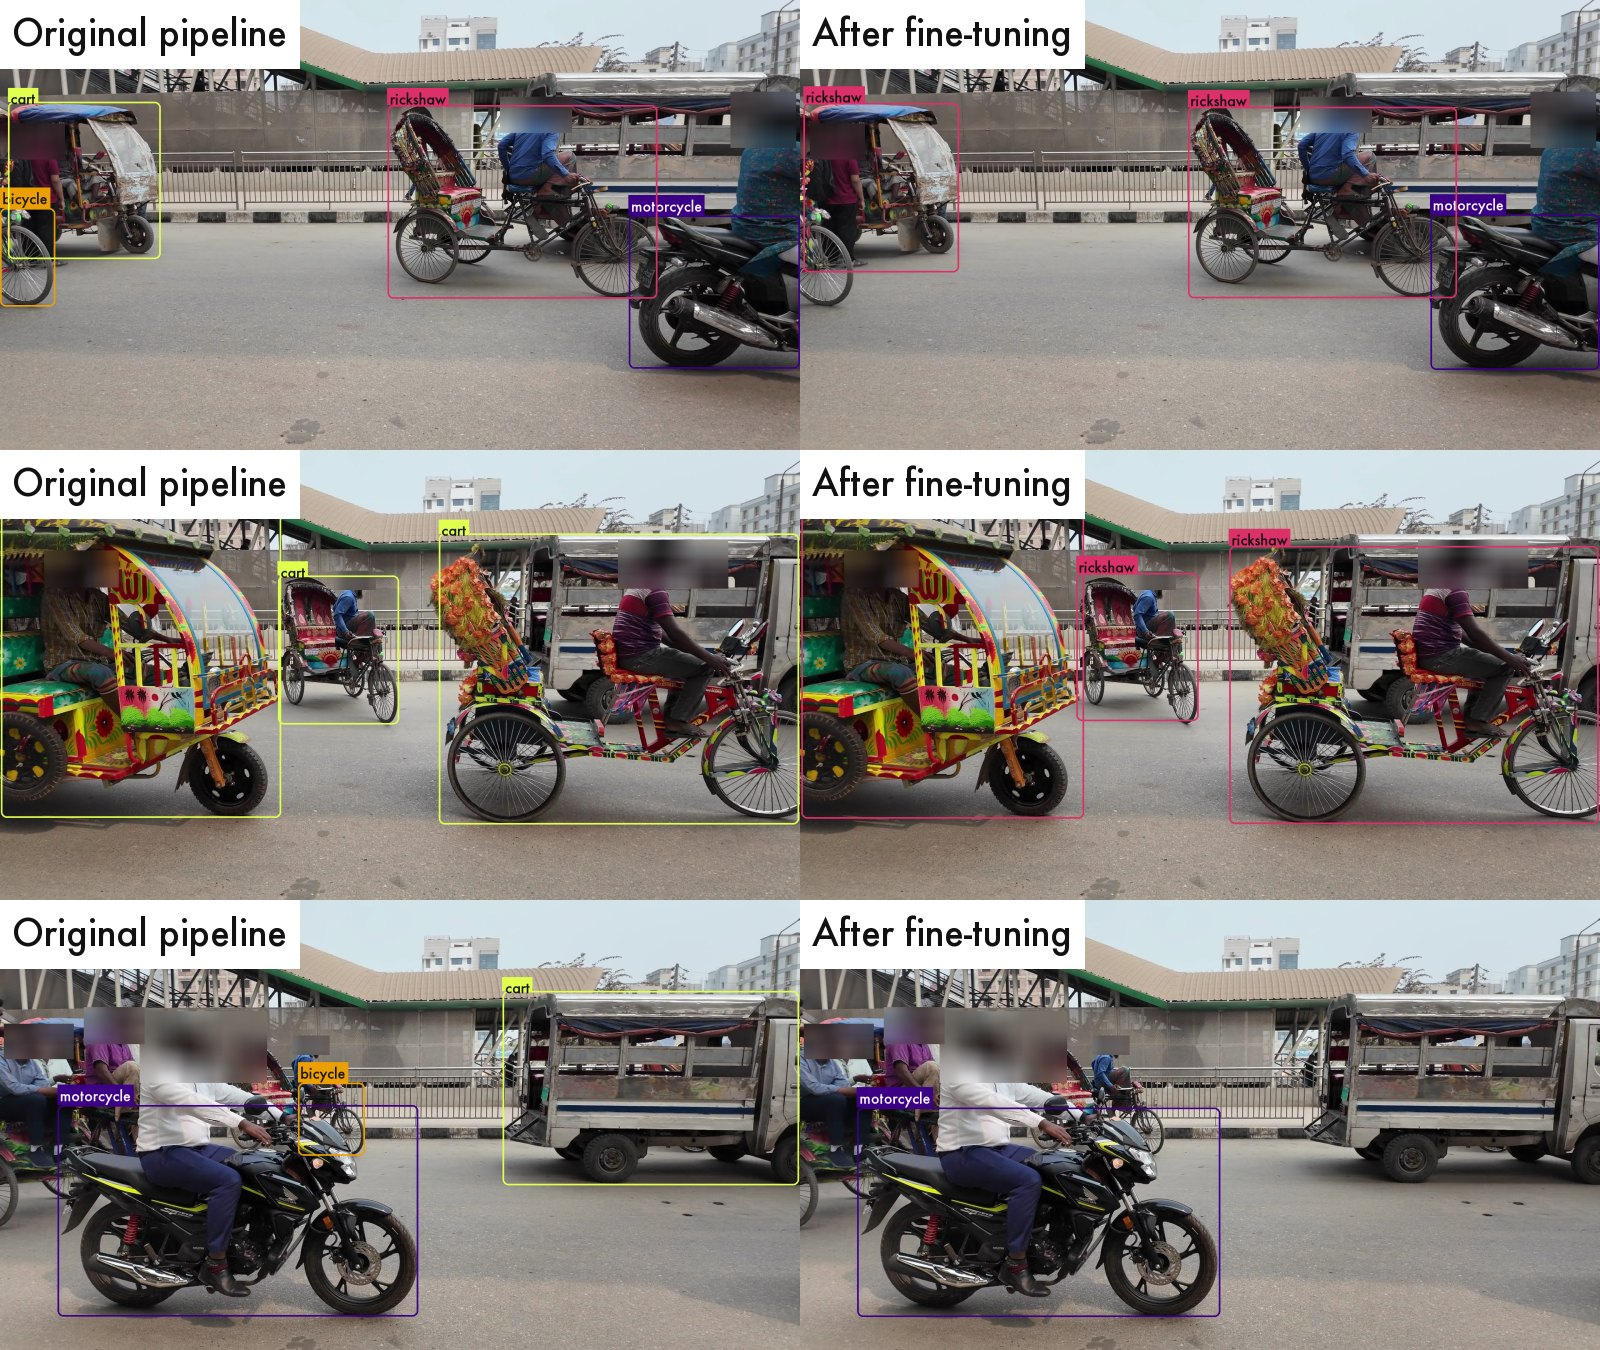
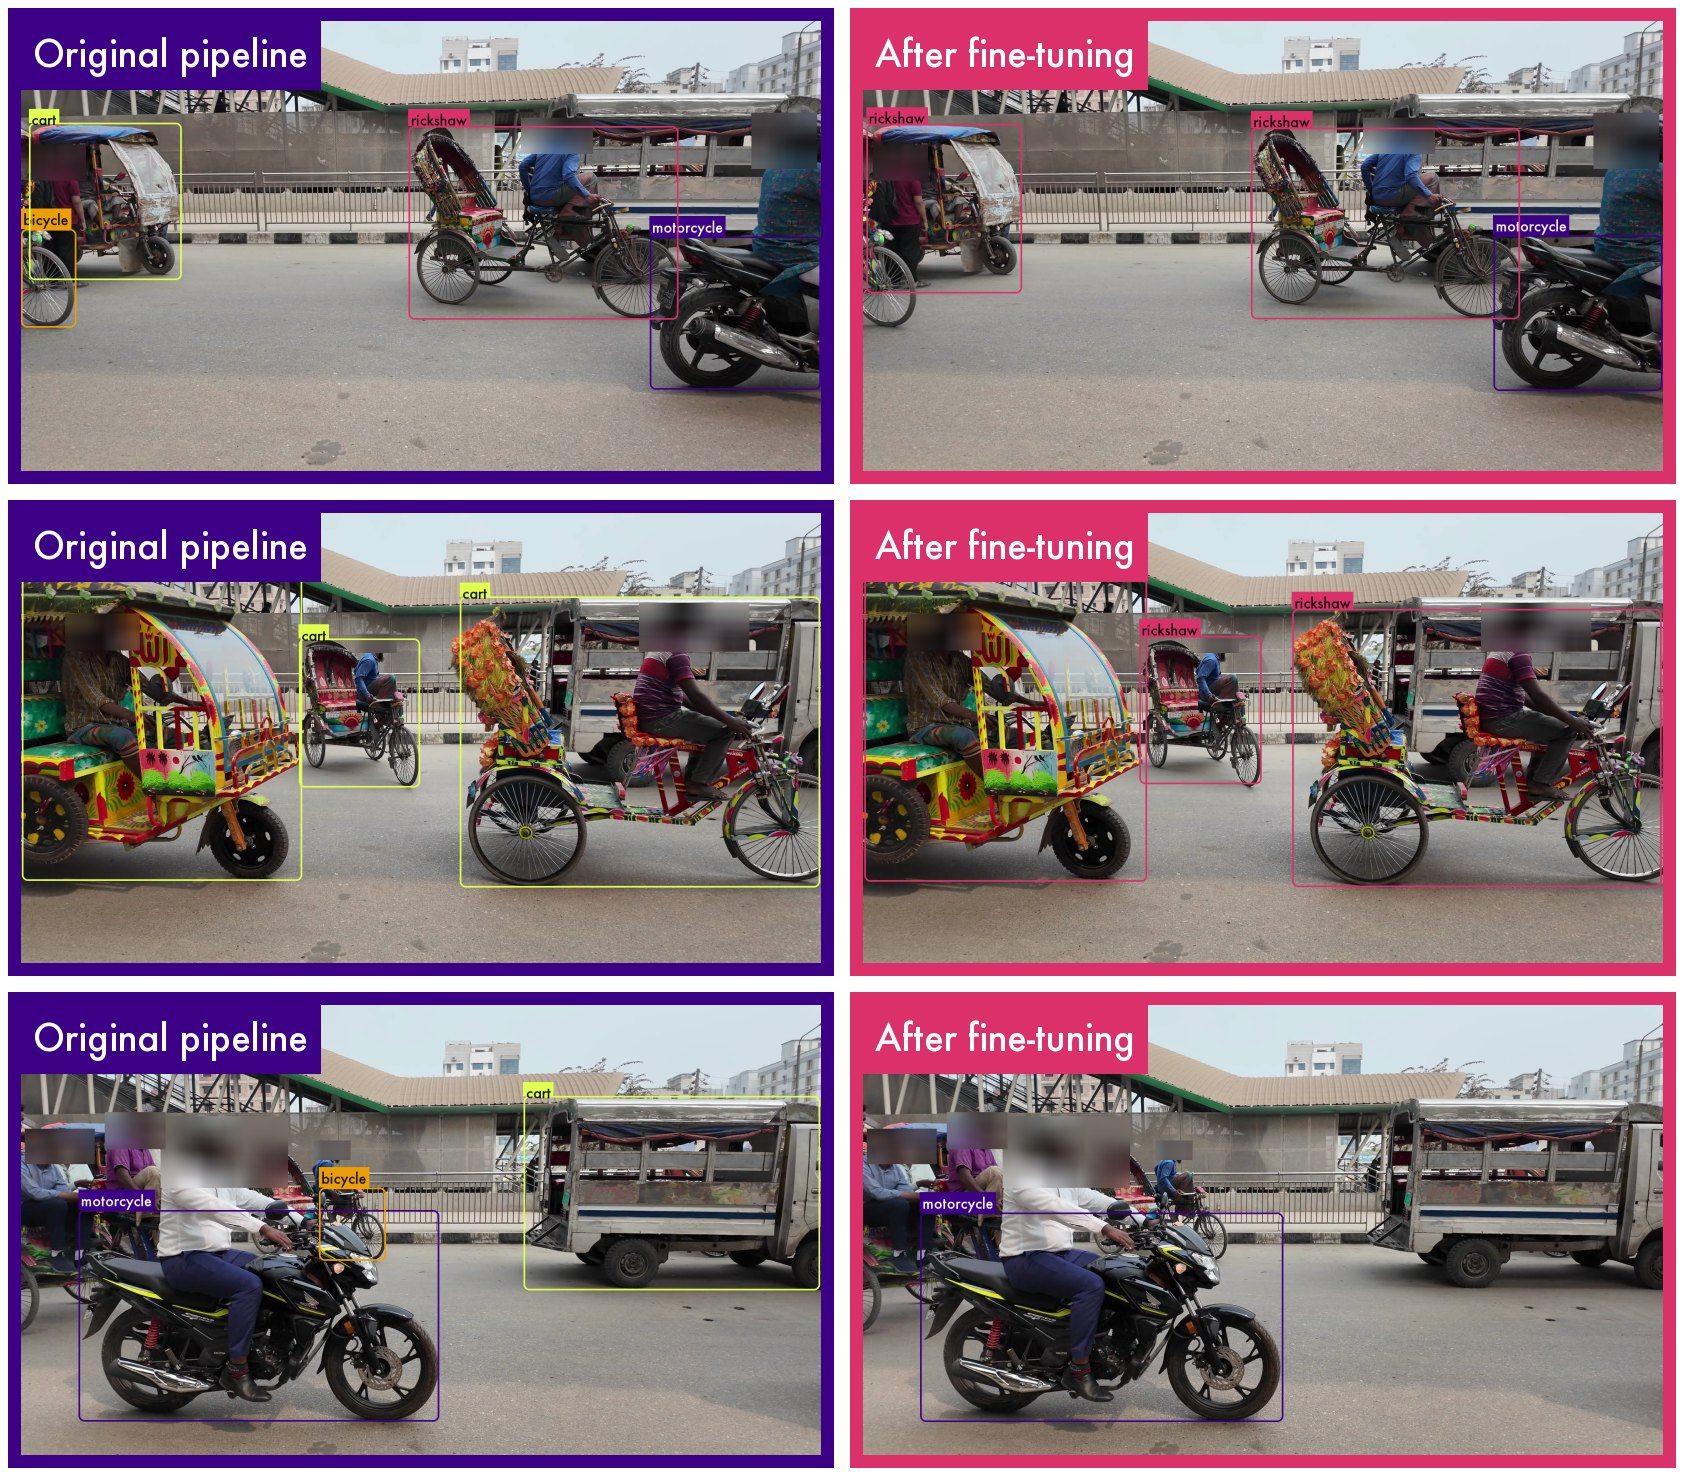
README: framed before/after panels, amber built-with badge, plain Claude note
Original pipeline panels use a deep purple frame and after fine-tuning a raspberry one.

diff --git a/scripts/make_figures.py b/scripts/make_figures.py
@@ -2,7 +2,7 @@ import argparse, json, os
 from pathlib import Path
 import numpy as np, cv2
 import supervision as sv
-from PIL import Image, ImageDraw, ImageFont
+from PIL import Image, ImageDraw, ImageFont, ImageOps
 
 # Builds the README pictures for a held-out test clip (default clip1, the Dhaka street): a side-by-side before/after GIF, three before/after stills,
 # and a gallery of real mistakes (old pipeline and fine-tuned model). Vehicles only, same style both sides.
@@ -94,11 +94,21 @@ def draw(img_bgr, items, size=22):
     return cv2.cvtColor(np.array(pil), cv2.COLOR_RGB2BGR)
 
 
-def banner(img_bgr, text):
-    pil = Image.fromarray(cv2.cvtColor(img_bgr, cv2.COLOR_BGR2RGB)); dr = ImageDraw.Draw(pil); f = FONT(max(16, img_bgr.shape[1] // 22))
+ORIG_HEX, AFTER_HEX = "#3B0086", "#db3069"   # palette colors: original pipeline = deep purple, after fine-tuning = raspberry
+
+
+def panel(img_bgr, text, hex_color):
+    """Colored frame and colored label tab, so busy pictures can be told apart at a glance. White gutter outside."""
+    col = rgb(hex_color)
+    h, w = img_bgr.shape[:2]
+    b = max(8, w // 60)
+    framed = cv2.copyMakeBorder(img_bgr, b, b, b, b, cv2.BORDER_CONSTANT, value=col[::-1])
+    pil = Image.fromarray(cv2.cvtColor(framed, cv2.COLOR_BGR2RGB)); dr = ImageDraw.Draw(pil); f = FONT(max(16, w // 22))
     tb = dr.textbbox((0, 0), text, font=f)
-    dr.rectangle([0, 0, tb[2] + 24, tb[3] + 20], fill=(255, 255, 255)); dr.text((12, 8), text, font=f, fill=(17, 17, 17))
-    return cv2.cvtColor(np.array(pil), cv2.COLOR_RGB2BGR)
+    dr.rectangle([b, b, b + tb[2] + 24, b + tb[3] + 20], fill=col)
+    dr.text((b + 12, b + 8), text, font=f, fill=(255, 255, 255))
+    out = cv2.cvtColor(np.array(pil), cv2.COLOR_RGB2BGR)
+    return cv2.copyMakeBorder(out, 8, 8, 8, 8, cv2.BORDER_CONSTANT, value=(255, 255, 255))
 
 
 def render(iid, source, w):
@@ -117,7 +127,7 @@ def hits(pred, iid, cls=4):
 frames = sorted(files)[::3]
 pairs = []
 for iid in frames:
-    a, b = banner(render(iid, O, 480), "Original pipeline"), banner(render(iid, P, 480), "After fine-tuning")
+    a, b = panel(render(iid, O, 460), "Original pipeline", ORIG_HEX), panel(render(iid, P, 460), "After fine-tuning", AFTER_HEX)
     pairs.append(np.hstack([a, b]))
 import subprocess, tempfile, imageio_ffmpeg
 tmp = tempfile.mkdtemp()
@@ -135,7 +145,7 @@ for i in gain:
     if all(abs(i - j) >= 10 for j in pick): pick.append(i)
     if len(pick) == 3: break
 if len(pick) == 3:
-    rows = [np.hstack([banner(render(i, O, 800), "Original pipeline"), banner(render(i, P, 800), "After fine-tuning")]) for i in sorted(pick)]
+    rows = [np.hstack([panel(render(i, O, 800), "Original pipeline", ORIG_HEX), panel(render(i, P, 800), "After fine-tuning", AFTER_HEX)]) for i in sorted(pick)]
     cv2.imwrite(str(OUT / f"where_it_wins_{args.tag}.jpg"), np.vstack(rows), [cv2.IMWRITE_JPEG_QUALITY, 86])
 else:
     print("not enough real wins for a strip:", len(gain), "frames")
@@ -145,14 +155,14 @@ pick2 = []
 for i in loss:
     if all(abs(i - j) >= 10 for j in pick2): pick2.append(i)
     if len(pick2) == 3: break
-rows = [np.hstack([banner(render(i, O, 800), "Original pipeline"), banner(render(i, P, 800), "After fine-tuning")]) for i in sorted(pick2)]
+rows = [np.hstack([panel(render(i, O, 800), "Original pipeline", ORIG_HEX), panel(render(i, P, 800), "After fine-tuning", AFTER_HEX)]) for i in sorted(pick2)]
 cv2.imwrite(str(OUT / f"where_it_is_worse_{args.tag}.jpg"), np.vstack(rows), [cv2.IMWRITE_JPEG_QUALITY, 86])
 
 # 3) gallery of real mistakes
 tiles = []
 
 
-def tile(iid, cat, box, label, caption):
+def tile(iid, cat, box, label, caption, hex_color):
     img = read_blurred(f"{args.images}/{files[iid]}")
     img = draw(img, [(cat, box, label)], size=34)
     x1, y1, x2, y2 = box; cx, cy = (x1 + x2) / 2, (y1 + y2) / 2
@@ -161,7 +171,8 @@ def tile(iid, cat, box, label, caption):
     crop = cv2.resize(img[y0:y0 + int(h), x0:x0 + int(w)], (640, 360), interpolation=cv2.INTER_AREA)
     pil = Image.fromarray(cv2.cvtColor(crop, cv2.COLOR_BGR2RGB)); canvas = Image.new("RGB", (640, 420), (255, 255, 255))
     canvas.paste(pil, (0, 0)); ImageDraw.Draw(canvas).text((12, 372), caption, font=FONT(24), fill=(17, 17, 17))
-    tiles.append(np.array(canvas))
+    ImageDraw.Draw(canvas).rectangle([0, 0, 639, 419], outline=rgb(hex_color), width=10)
+    tiles.append(np.array(ImageOps.expand(canvas, border=8, fill=(255, 255, 255))))
 
 
 def best(cands, used):
@@ -180,22 +191,22 @@ for cat_name, cid, caption in (("cart", 5, "Old pipeline: a rickshaw called a ca
             if m and not any(pc == 4 and iou(gb, pb) > 0.5 for pc, pb, _ in O.get(iid, [])):
                 c.append(((gb[2] - gb[0]) * (gb[3] - gb[1]), iid, m[0]))
     t = best(c, used)
-    if t: tile(t[1], cid, t[2], cat_name, caption)
+    if t: tile(t[1], cid, t[2], cat_name, caption, ORIG_HEX)
 
 # model boxes drawn where the answer key has nothing: kept only if I confirmed by eye that they are wrong (see AUDITED_WRONG)
 AUDITED_WRONG = set()   # (frame id, class) pairs, filled in after looking at every unmatched box
 fp = [((b[2] - b[0]) * (b[3] - b[1]), iid, b) for iid, pl in P.items() for c, b, s in pl
       if (iid, c) in AUDITED_WRONG and not any(iou(b, gb) > 0.3 for _, gb, _ in G.get(iid, []))]
 t = best(fp, used)
-if t: tile(t[1], 4, t[2], "rickshaw", "Fine-tuned: a wrong guess (audited by eye)")
+if t: tile(t[1], 4, t[2], "rickshaw", "Fine-tuned: a wrong guess (audited by eye)", AFTER_HEX)
 miss = [((b[2] - b[0]) * (b[3] - b[1]), iid, b) for iid, gl in G.items() for c, b, _ in gl
         if c == 4 and not any(iou(b, pb) > 0.1 for pc, pb, _ in P.get(iid, []))]  # nothing at all drawn on it
 t = best(miss, used)
-if t: tile(t[1], 4, t[2], "missed", "Fine-tuned: a rickshaw it did not see")
+if t: tile(t[1], 4, t[2], "missed", "Fine-tuned: a rickshaw it did not see", AFTER_HEX)
 mo = [((b[2] - b[0]) * (b[3] - b[1]), iid, pb) for iid, gl in G.items() for c, b, _ in gl if c == 4
       for pc, pb, _ in P.get(iid, []) if pc == 3 and iou(b, pb) > 0.5]
 t = best(mo, used)
-if t: tile(t[1], 3, t[2], "motorcycle", "Fine-tuned: a rickshaw called a motorcycle")
+if t: tile(t[1], 3, t[2], "motorcycle", "Fine-tuned: a rickshaw called a motorcycle", AFTER_HEX)
 while len(tiles) % 3: tiles.append(np.full_like(tiles[0], 255))
 cv2.imwrite(str(OUT / f"mistakes_gallery_{args.tag}.jpg"), cv2.cvtColor(np.vstack([np.hstack(tiles[i:i + 3]) for i in range(0, len(tiles), 3)]), cv2.COLOR_RGB2BGR),
             [cv2.IMWRITE_JPEG_QUALITY, 86])

diff --git a/README.md b/README.md
@@ -2,6 +2,8 @@
 
 **Teaching RF-DETR to identify rickshaws in Dhaka street footage, with Roboflow's open source tools.**
 
+<img src="media/built_with_claude_code.png" alt="Built with Claude Code, Sonnet 5.5" width="360">
+
 ![The fine-tuned model on a Dhaka street clip it never trained on](media/hero_dhaka_street.gif)
 
 *The Dhaka street clip, which RF-DETR never trained on. Blue is a person, pink a rickshaw, purple a motorcycle, amber a bicycle, yellow-green a cart.*
@@ -70,7 +72,7 @@ Pictures of the mistakes are in the [details](docs/DETAILS.md).
 
 Things that cost me time, and what I would suggest (rfdetr 1.11.1, supervision 0.30.6).
 
-$\color{orange}{\text{Summarized by Claude (Claude Code) from the problems that came up while building this, and checked by Claude against the library versions listed. Worth confirming any single item before relying on it.}}$
+Summarized by Claude Code.
 
 - **Class labels are inconsistent between the model's output and the library's name list.** *Evidence:* the pretrained model returns each object as a number from 1 to 90, with gaps. The library's list of 80 names counts from zero and starts person, bicycle, car, motorcycle. So the number 1 (a person) looks up "bicycle," and the number 4 (a motorcycle) looks up "airplane." My first video labeled people "bicycle." *Suggestion:* return the names with the detections.
 - **The removed-import error points to a place that does not have the answer.** *Evidence:* importing `rfdetr.util` fails with "rfdetr.util was removed in v1.9.0. Use rfdetr.utilities instead." I checked: `rfdetr.utilities` does not contain the class names, and `rfdetr.assets.coco_classes` does. *Suggestion:* name the real location in the message.
